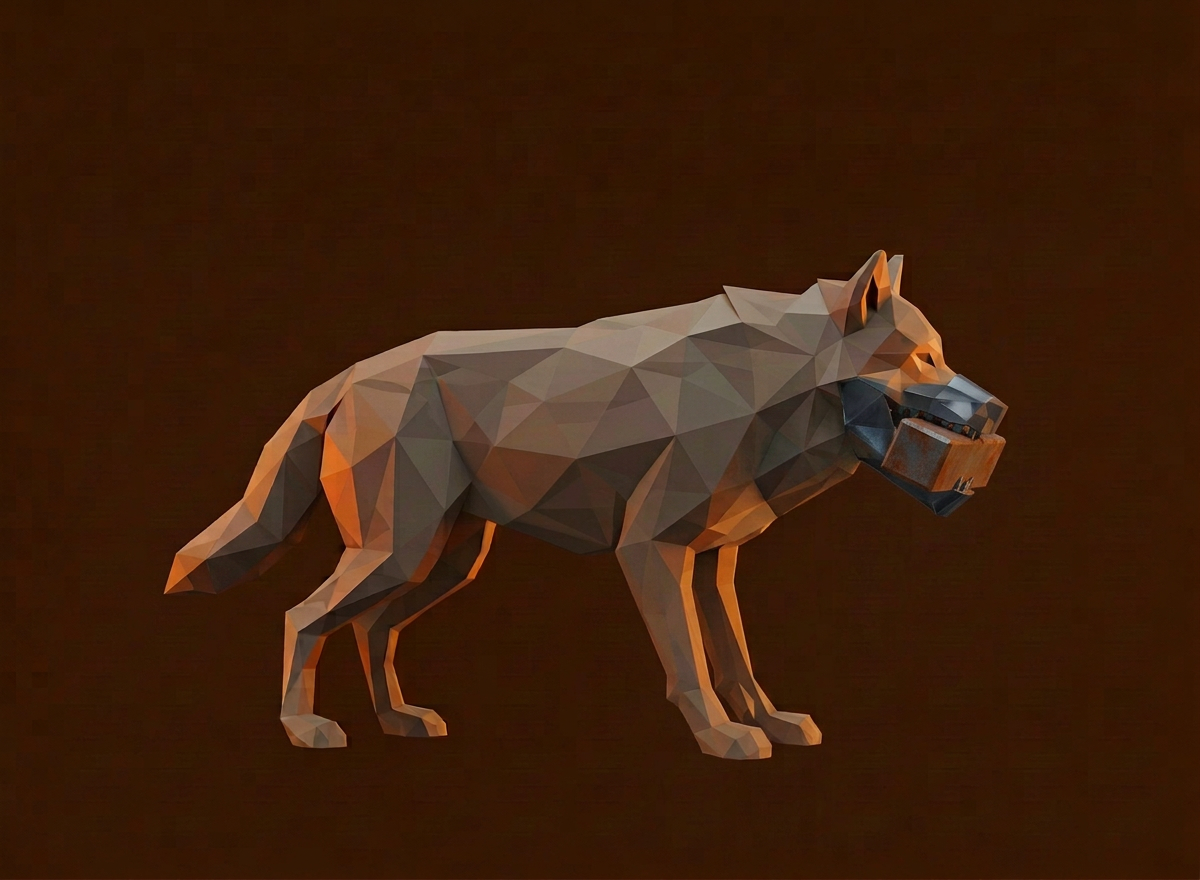
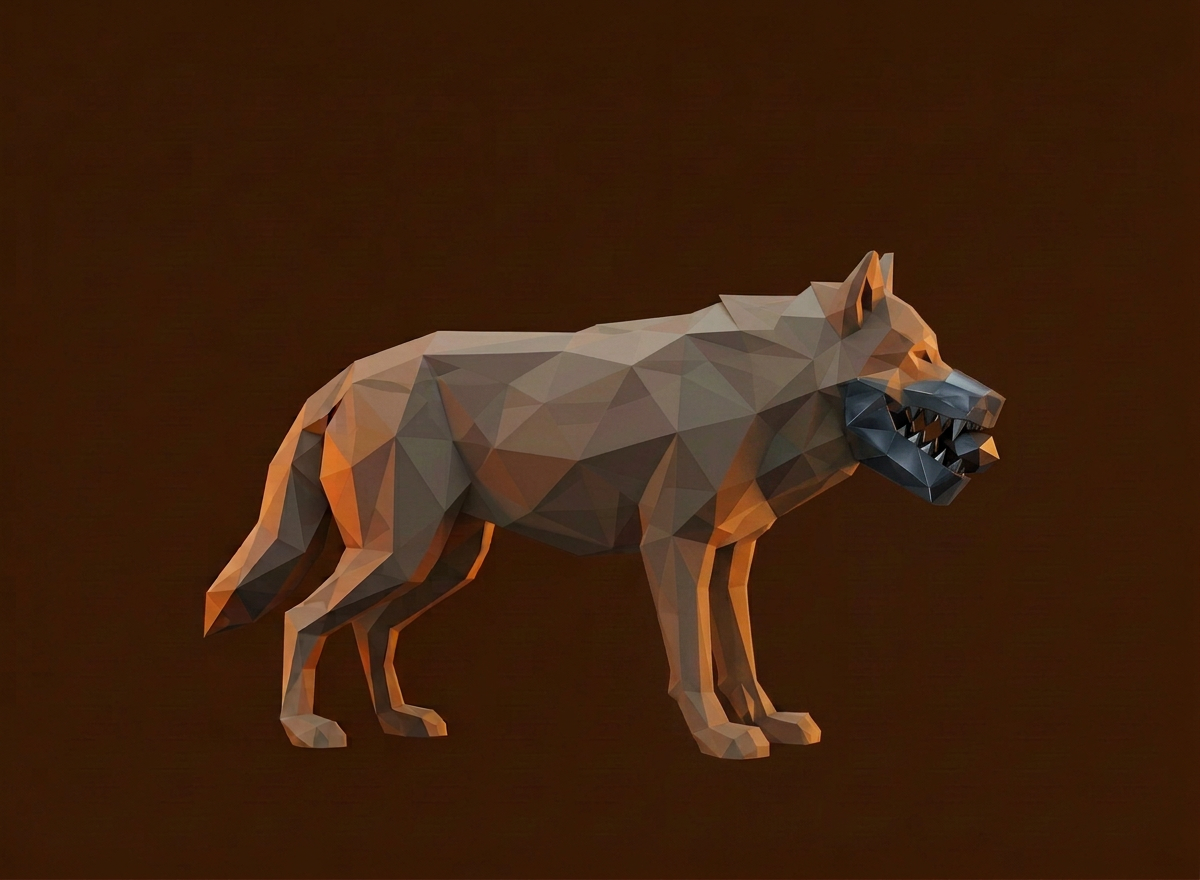
Mandíbula v2 (fonte): corrige o atk_3 (remove bloco de pedra), acrescenta idle_2 e atk_5 novos e death_1/2/4; manifesto com estado real (atk_4 e death_3/5/6 pendentes)

diff --git a/art-source/gemeos-lowpoly/README.md b/art-source/gemeos-lowpoly/README.md
@@ -15,29 +15,28 @@ Corpo: lobo normal em laranja-acastanhado, com os mesmos tons do lobo. Mandíbul
 | Ataque | `attack: 9` | `patas_atk_0..8` | Aceito; `atk_5` com pata mais esticada, conferir no jogo |
 | Morte | `death: 7` | `patas_death_0..6` | Aceito; `death_3` e `death_4` refeitos |
 
-
 ## Mandíbula v2 (mandíbula de aço grande e visível, também com a boca fechada; pernas sem aço)
 A v1 tinha mandíbula pequena e não aparecia com a boca fechada. A v2 foi refeita a partir dela; os quadros da v1 foram removidos.
 
 | Conjunto | Código | Arquivos aqui | Estado |
 |---|---|---|---|
 | Base | — | `mandibula_base_v2.png` (= `mandibula_v2_idle_0`) | Aceita |
-| Repouso | `idle: 5` | `mandibula_v2_idle_0`, `_1`, `_3`, `_4` (4 de 5) | `idle_2` reprovado 2 vezes (cabeça alta, pescoço esticado): pendente |
+| Repouso | `idle: 5` | `mandibula_v2_idle_0..4` (5 de 5) | Aceito |
 | Caminhada | `walk: 16` | nenhum | Pausada |
-| Dano | `hurt: 3` | `mandibula_v2_hurt_0..2` (3) | Aceito (3 de 3) |
-| Ataque | `attack: 9` | `mandibula_v2_atk_0..3`, `_6..8` (7 de 9) | `atk_4` (cabeça grande, juba de frente) e `atk_5` (corpo longo e fino) reprovados: pendente |
-| Morte | `death: 7` | `mandibula_v2_death_0` (1 de 7) | Em andamento: faltam `death_1..6` |
+| Dano | `hurt: 3` | `mandibula_v2_hurt_0..2` (3 de 3) | Aceito |
+| Ataque | `attack: 9` | `mandibula_v2_atk_0..3, _5..8` (8 de 9) | `atk_4` pendente: a versão anterior tinha duas cabeças, e a nova tem uma crista de pelo no pescoço que pode ser lida como segunda cabeça |
+| Morte | `death: 7` | `mandibula_v2_death_0,1,2,4` (4 de 7) | `death_3`, `death_5` e `death_6` pendentes: pernas e corpo saem da pose lateral |
 
 ## Descartados (não estão aqui)
 - Versões cinzas das Patas (`patas_base_cinza`, `patas_key_*`): o usuário pediu o corpo laranja.
 - Caminhada de 8 quadros-chave das Patas (`patas_k*`): pata distante fora do chão.
 - Mandíbula v1 (base e repouso pequenos): substituída pela v2.
 - Versão v3 das Patas e os primeiros quadros de morte e ataque: perdidos no reinício do ambiente.
-- Quadros reprovados da v2 (`idle_2`, `atk_4`, `atk_5`): não estão aqui.
+- Quadros reprovados da v2: `idle_2` antigo (cabeça alta), `atk_3` antigo (bloco de pedra na boca), `atk_4` antigo (duas cabeças), `atk_5` antigo (corpo longo e fino).
 
 ## Pendências para integrar
-1. Patas: escolher 4 quadros de repouso (os 5 atuais estão aqui).
-2. Mandíbula: refazer `idle_2`, `atk_4` e `atk_5`; gerar `death_1..6` (6).
+1. Mandíbula: gerar `atk_4` de novo e refazer `death_3`, `death_5` e `death_6`; gerar `death_1..6`. Os `death_*` são 3 pendentes mais os não gerados.
+2. Patas: escolher 4 quadros de repouso (os 5 atuais estão aqui).
 3. Caminhada das duas (16 cada), pausada.
 4. Corte com `cutlib` para 56×36, pés na linha 36, e medições.
 5. Atualizar `js/creatures.js` apenas quando as contagens baterem.
